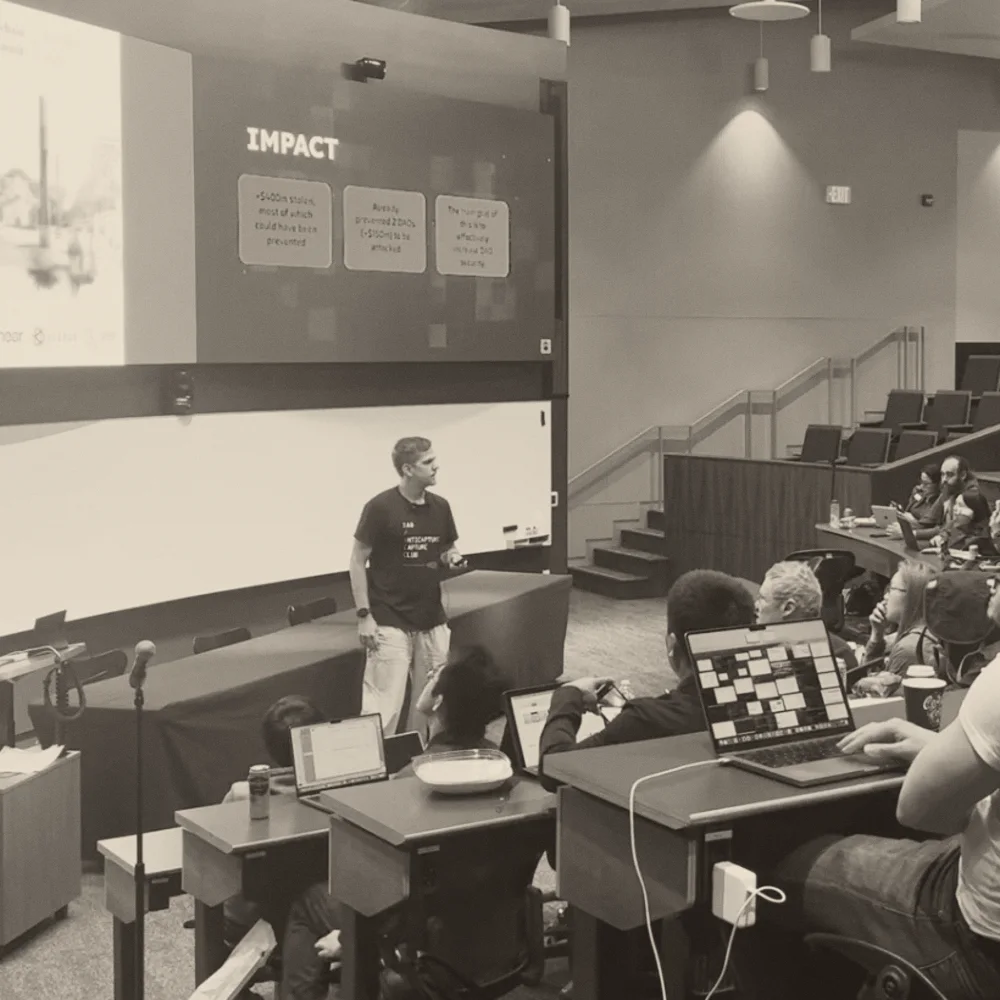
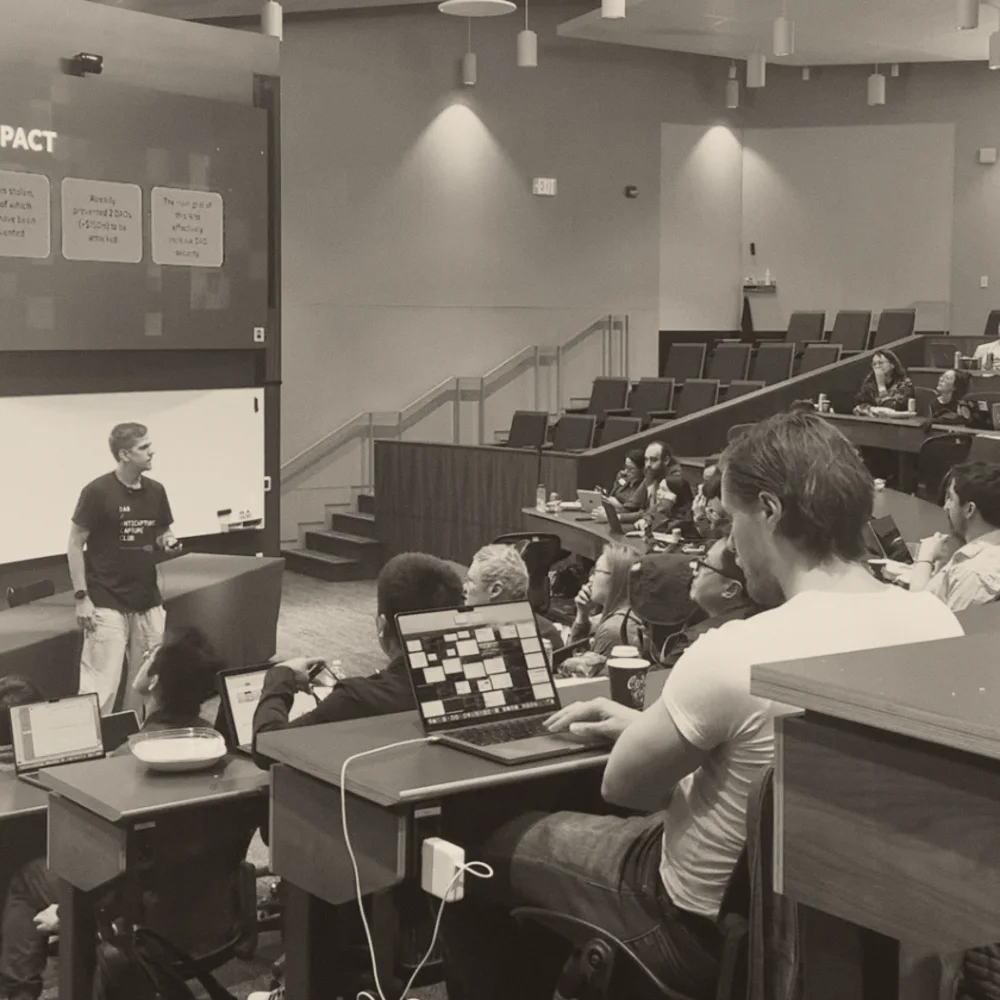
Give the hero photos room below the menu; reframe Stanford on the audience (#16)
- The hero now sits 2rem below the menu, the same space every section
  rule gets above it, so the photo no longer touches the navigation
  (it was 4 px) and the block has 32 px above and below.
- On desktop the text and the photo are also 2rem apart, and the tagline
  breaks into two balanced lines instead of running into the photo; on
  mobile it no longer leaves "and bytes." alone on a line.
- Stanford photo re-cropped to the right: more of the audience, less of
  the wall and the slide.

diff --git a/src/styles/global.css b/src/styles/global.css
@@ -326,12 +326,15 @@ abbr[title] {
   color: var(--text-secondary);
   margin-bottom: 0;
   font-style: italic;
+  text-wrap: balance;
 }
 
+/* Same 2rem above the hero as above each section rule below it (it collapses with the header's margin). */
 .hero {
   display: grid;
   gap: 1.25rem;
   align-items: center;
+  margin-top: 2rem;
 }
 
 .hero-photos {
@@ -925,6 +928,7 @@ html[data-lang="en"] .lang-switch [data-set-lang="en"] {
 
   .hero {
     grid-template-columns: 1fr 240px;
+    column-gap: 2rem;
   }
 
   .hero-photos {
